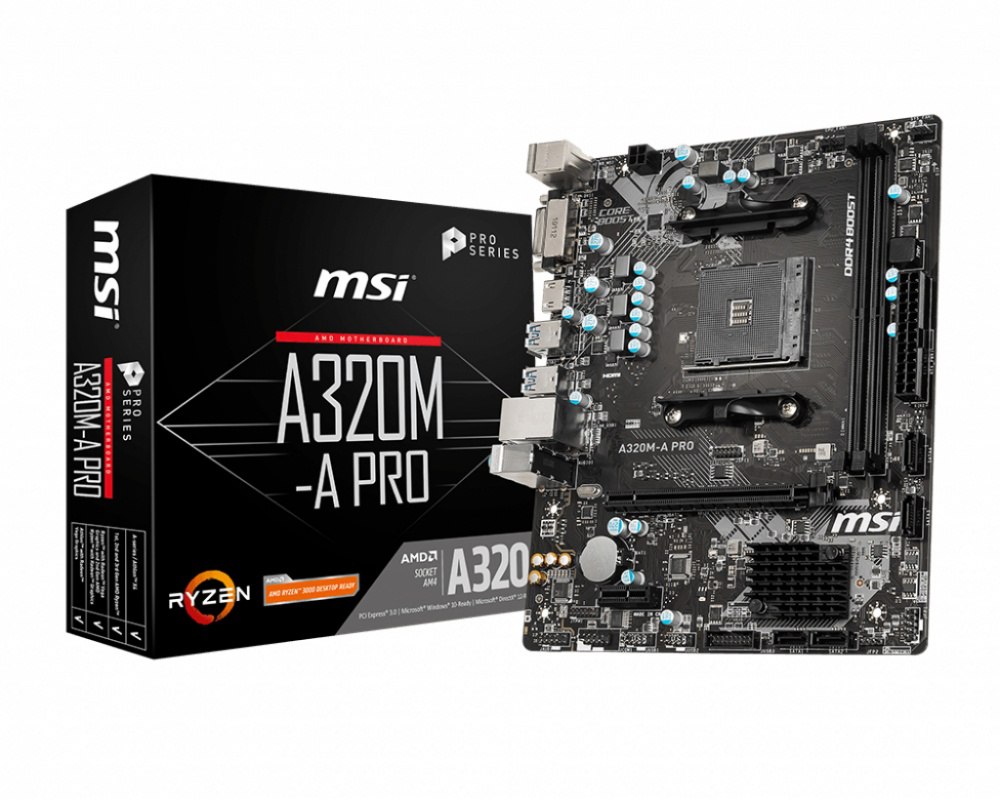
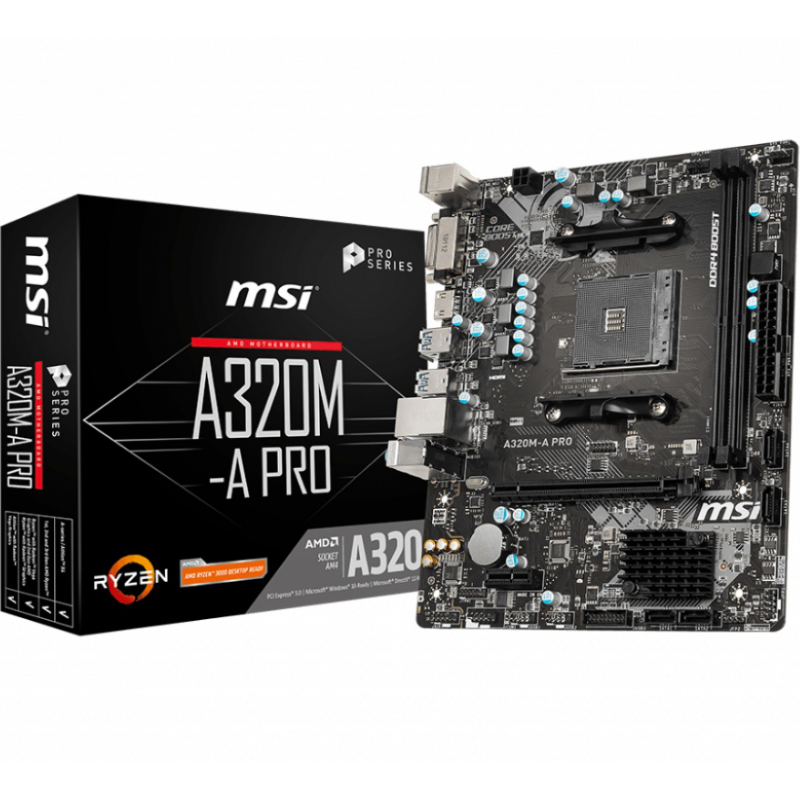
reescala de imagenes gpu y motherboard

diff --git a/CarritoCompra.HTML b/CarritoCompra.HTML
@@ -38,16 +38,13 @@
       
 <body>  
    
-    <header>
-        <h1>SIGMA SHOP</h1>
-    </header>
     <section class="contenedor">
         <!-- Items de compra -->
         <div class="contenedor-items">
         <!-- Tarjetas Graficas -->
             <div class="item">
                 <span class="titulo-item">GTX 1070</span>
-                <img src="img/graficas/GTX1070.png" alt="" class="img-item">
+                <img src="img/graficas/1070.png" alt="" class="img-item">
                 <span class="desc-item">Fabricante: Asus</span>
                 <span class="desc-item">Memoria Vram: 8GB GDDR5</span>
                 <span class="desc-item">Bus: Pci Express 3.0</span>
@@ -56,7 +53,7 @@
             </div>
             <div class="item">
                 <span class="titulo-item">RTX 3050</span>
-                <img src="img/graficas/RTX3050.png" alt="" class="img-item">
+                <img src="img/graficas/3050.png" alt="" class="img-item">
                 <span class="desc-item">Fabricante: Galax</span>
                 <span class="desc-item">Memoria Vram: 8GB GDDR6</span>
                 <span class="desc-item">Bus: Pci Express 4.0x8</span>
@@ -65,7 +62,7 @@
             </div>
             <div class="item">
                 <span class="titulo-item">RX 6400</span>
-                <img src="img/graficas/RX6400.png" alt="" class="img-item">
+                <img src="img/graficas/6400.png" alt="" class="img-item">
                 <span class="desc-item">Fabricante: AsRock</span>
                 <span class="desc-item">Memoria Vram: 4GB GDDR6</span>
                 <span class="desc-item">Bus: Pci Express 4.0x4</span>
@@ -74,7 +71,7 @@
             </div>
             <div class="item">
                 <span class="titulo-item">RX 6800XT</span>
-                <img src="img/graficas/RX6800XT.png" alt="" class="img-item">
+                <img src="img/graficas/6800xt.png" alt="" class="img-item">
                 <span class="desc-item">Fabricante: AsRock</span>
                 <span class="desc-item">Memoria Vram: 16GB GDDR6</span>
                 <span class="desc-item">Bus: Pci Express 4.0x16</span>
@@ -83,7 +80,7 @@
             </div>
             <div class="item">
                 <span class="titulo-item">GTX 1650</span>
-                <img src="img/graficas/GTX1650.png" alt="" class="img-item">
+                <img src="img/graficas/1650.png" alt="" class="img-item">
                 <span class="desc-item">Fabricante: Asus</span>
                 <span class="desc-item">Memoria Vram: 4GB GDDR6</span>
                 <span class="desc-item">Bus: Pci Express 3.0x16</span>
@@ -92,7 +89,7 @@
             </div>
             <div class="item">
                 <span class="titulo-item">RX 580 v2</span>
-                <img src="img/graficas/RX580.png" alt="" class="img-item">
+                <img src="img/graficas/580v2.png" alt="" class="img-item">
                 <span class="desc-item">Fabricante: XFX</span>
                 <span class="desc-item">Memoria Vram: 8GB GDDR5</span>
                 <span class="desc-item">Bus: Pci Express 3.0x16</span>
@@ -101,7 +98,7 @@
             </div>
             <div class="item">
                 <span class="titulo-item">GTX 1660 SUPER</span>
-                <img src="img/graficas/GTX1660SUPER.png" alt="" class="img-item">
+                <img src="img/graficas/1660s.png" alt="" class="img-item">
                 <span class="desc-item">Fabricante: MSI</span>
                 <span class="desc-item">Memoria Vram: 6GB GDDR6</span>
                 <span class="desc-item">Bus: Pci Express 3.0x16</span>
@@ -110,7 +107,7 @@
             </div>
             <div class="item">
                 <span class="titulo-item">RTX 3060</span>
-                <img src="img/graficas/RTX306012GB.png" alt="" class="img-item">
+                <img src="img/graficas/3060.png" alt="" class="img-item">
                 <span class="desc-item">Fabricante: MSI</span>
                 <span class="desc-item">Memoria Vram: 12GB GDDR6</span>
                 <span class="desc-item">Bus: Pci Express 4.0x16</span>
@@ -119,7 +116,7 @@
             </div>
             <div class="item">
                 <span class="titulo-item">RTX 2060</span>
-                <img src="img/graficas/RTX 2060.png" alt="" class="img-item">
+                <img src="img/graficas/2060.png" alt="" class="img-item">
                 <span class="desc-item">Fabricante: EVGA</span>
                 <span class="desc-item">Memoria Vram: 6GB GDDR6</span>
                 <span class="desc-item">Bus: Pci Express 3.0x16</span>
@@ -128,7 +125,7 @@
             </div>
             <div class="item">
                 <span class="titulo-item">RX 550</span>
-                <img src="img/graficas/RX550.png" alt="" class="img-item">
+                <img src="img/graficas/550.png" alt="" class="img-item">
                 <span class="desc-item">Fabricante: AsRock</span>
                 <span class="desc-item">Memoria Vram: 2GB GDDR6</span>
                 <span class="desc-item">Bus: Pci Express 3.0x16</span>
@@ -364,8 +361,8 @@
                 <button class="boton-item">Agregar al carrito</button>
             </div>
             <div class="item">
-                <span class="titulo-item">PRIME H510M-E MicroATX</span>
-                <img src="img/motherboard/ASUS PRIME H510M-E.jpg" alt="" class="img-item">
+                <span class="titulo-item">A320M-A PRO ATX</span>
+                <img src="img/motherboard/MSI A320M-A PRO.jpg" alt="" class="img-item">
                 <span class="desc-item">Fabricante: ASUS</span>
                 <span class="desc-item">Socket: LGA1200</span>
                 <span class="desc-item">Slots Ram: 2x DDR4</span>
@@ -406,15 +403,6 @@
                 <span class="desc-item">Socket: LGA1200</span>
                 <span class="desc-item">Slots Ram: 4x DDR4</span>
                 <span class="precio-item">$139.990</span>
-                <button class="boton-item">Agregar al carrito</button>
-            </div>
-            <div class="item">
-                <span class="titulo-item">A320M-A PRO</span>
-                <img src="img/motherboard/MSI A320M-A PRO.jpg" alt="" class="img-item">
-                <span class="desc-item">Fabricante: MSI</span>
-                <span class="desc-item">Socket: AM4</span>
-                <span class="desc-item">Slots Ram: 2x DDR4</span>
-                <span class="precio-item">$36.990</span>
                 <button class="boton-item">Agregar al carrito</button>
             </div>
         </div>

diff --git a/CarritoCompra.CSS b/CarritoCompra.CSS
@@ -35,7 +35,7 @@ header h1{
     grid-template-columns: repeat(auto-fit, minmax(220px, 1fr));
     grid-gap: 30px;
     grid-row-gap: 30px;
-    width: 60%;
+    width: 65%;
     transition: .3s;
 }
 
@@ -119,10 +119,10 @@ header h1{
 }
 
 .carrito .carrito-item .carrito-item-titulo{
-display: block;
-font-weight: bold;
-margin-bottom: 10px;
-text-transform: uppercase;
+    display: block;
+    font-weight: bold;
+    margin-bottom: 10px;
+    text-transform: uppercase;
 }
 
 .carrito .carrito-item .selector-cantidad{
